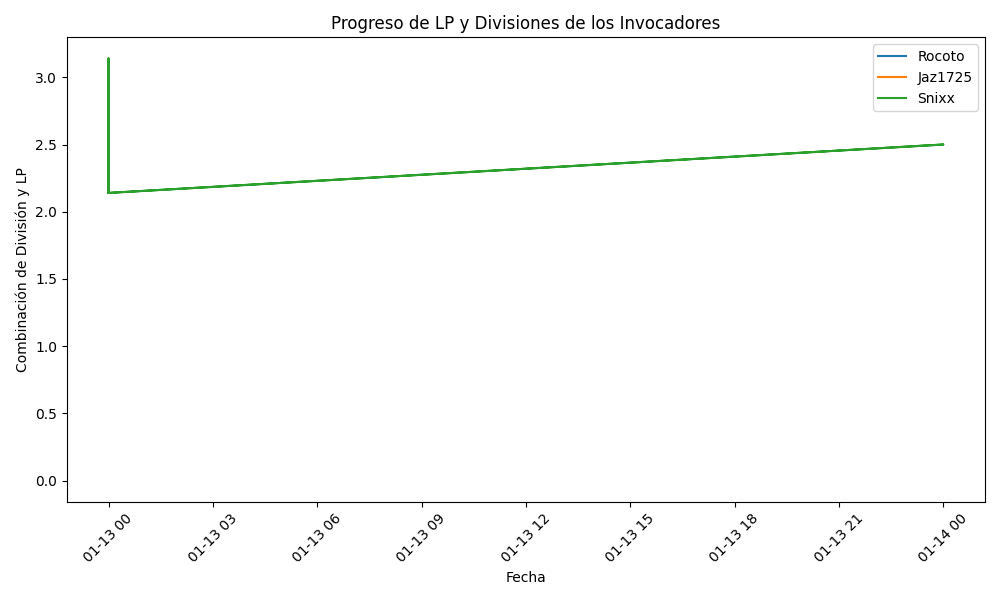
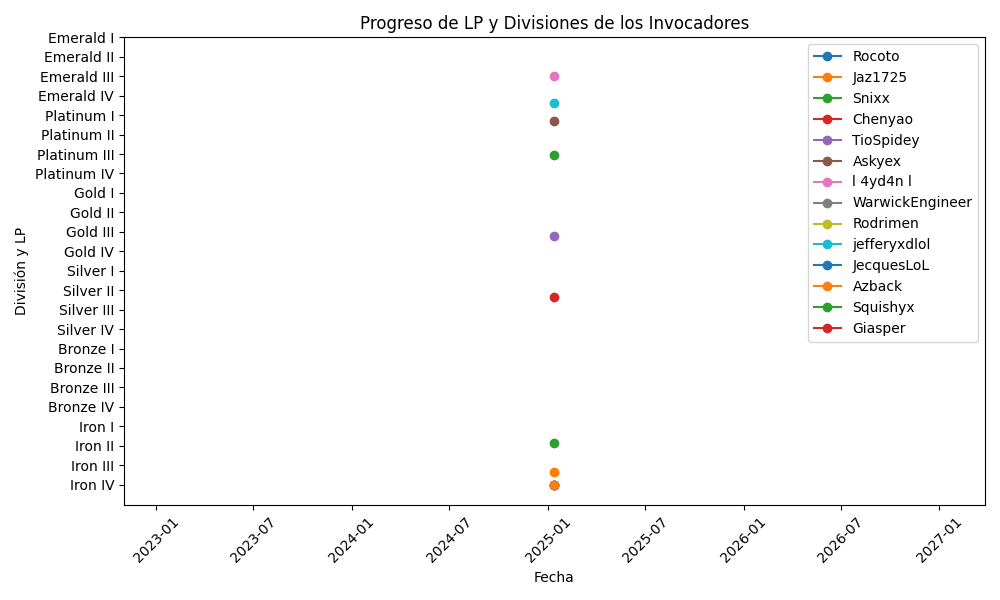
uwu

diff --git a/script.py b/script.py
@@ -47,7 +47,23 @@ def get_league_data(summoner_id):
 summoners = [
     {"name": "Rocoto", "tag": "2817"},
     {"name": "Jaz1725", "tag": "LAN"},
-    {"name": "Snixx", "tag": "LAN"}
+    {"name": "Snixx", "tag": "LAN"},
+    {"name": "Chenyao", "tag": "cutie"},
+    {"name": "TioSpidey", "tag": "LAN"},
+    {"name": "Askyex", "tag": "3012"},
+    {"name": "l 4yd4n l", "tag": "LAN"},
+    {"name": "WarwickEngineer", "tag": "3029"},
+    {"name": "Rodrimen", "tag": "LAN"},
+    #{"name": "atlantis temperr", "tag": "LAN"},
+    {"name": "jefferyxdlol", "tag": "LAN"},
+    #{"name": "ßasura", "tag": "LAN"},
+    {"name": "JecquesLoL", "tag": "LAN"},
+    {"name": "Azback", "tag": "117"},
+    {"name": "Squishyx", "tag": "LAN"},
+    {"name": "Giasper", "tag": "LAN"},
+    #{"name": "AyDaN", "tag": "LAN"},
+    #{"name": "Faren", "tag": "LAN"},
+    #{"name": "artrox2612", "tag": "LAN"}
 ]
 
 # Función para leer datos históricos del CSV (si existe)
@@ -60,16 +76,16 @@ def read_existing_csv(filename="docs/summoner_data.csv"):
 # Función para convertir las divisiones y LP a un valor numérico
 def division_to_numeric(division, rank, lp):
     division_order = {
-        "Iron": 0,
-        "Bronze": 10,
-        "Silver": 20,
-        "Gold": 30,
-        "Platinum": 40,
-        "Emerald": 50,
-        "Diamond": 60,
-        "Master": 70,
-        "GrandMaster": 80,
-        "Challenger": 90
+        "IRON": 0,
+        "BRONZE": 4,
+        "SILVER": 8,
+        "GOLD": 12,
+        "PLATINUM": 16,
+        "EMERALD": 20,
+        "DIAMOND": 24,
+        "MASTER": 28,
+        "GRANDMASTER": 29,
+        "CHALLENGER": 30
     }
 
     rank_order = {
@@ -84,7 +100,7 @@ def division_to_numeric(division, rank, lp):
     rank_value = rank_order.get(rank, 0)
     
     # Cada LP sube el valor del rango de la división, lo que permite un valor numérico en una escala continua
-    return division_value + rank_value + (lp / 100)  # LP divide por 100 para que entre en la escala de 0 a 1 dentro de la división
+    return division_value + (rank_value + (lp / 100))  # LP divide por 100 para que entre en la escala de 0 a 1 dentro de la división
 
 # Obtener el PUUID, datos adicionales y de liga para cada summoner
 def fetch_summoner_info(summoners):
@@ -151,18 +167,45 @@ def generate_graph(data, filename="docs/summoner_graph.png"):
     # Convertir la fecha a un formato adecuado para el eje X
     df['date'] = pd.to_datetime(df['date']).dt.date  # Solo la fecha sin la hora
     
+    # Mapear numeric_value a divisiones y rangos
+    divisions = [
+        "Iron IV", "Iron III", "Iron II", "Iron I",
+        "Bronze IV", "Bronze III", "Bronze II", "Bronze I",
+        "Silver IV", "Silver III", "Silver II", "Silver I",
+        "Gold IV", "Gold III", "Gold II", "Gold I",
+        "Platinum IV", "Platinum III", "Platinum II", "Platinum I",
+        "Emerald IV", "Emerald III", "Emerald II", "Emerald I",
+        "Diamond IV", "Diamond III", "Diamond II", "Diamond I",
+        "Master", "Grand Master", "Challenger"
+    ]
+    division_map = {i: division for i, division in enumerate(divisions)}
+    
+    # Determinar rango dinámico del eje Y
+    max_value = int(df['numeric_value'].max())  # Convertir a entero
+    min_value = int(df['numeric_value'].min())  # Convertir a entero
+    
+    # Calcular índices mínimo y máximo
+    max_index = min(((max_value // 4 + 1) * 4), len(divisions))  # Redondear al siguiente rango completo
+    y_ticks = list(range(min_value, max_index))  # Convertir a lista de valores enteros
+    y_labels = [division_map[i] for i in y_ticks]
+    
     # Graficar
     for summoner_name in df['name'].unique():
         summoner_data = df[df['name'] == summoner_name]
-        plt.plot(summoner_data['date'], summoner_data['numeric_value'], label=summoner_name)
+        plt.plot(summoner_data['date'], summoner_data['numeric_value'], marker="o", label=summoner_name)
     
     plt.title("Progreso de LP y Divisiones de los Invocadores")
     plt.xlabel('Fecha')
-    plt.ylabel('Combinación de División y LP')
+    plt.ylabel('División y LP')
     plt.xticks(rotation=45)
+    
+    # Configurar etiquetas dinámicas del eje Y
+    plt.yticks(ticks=y_ticks, labels=y_labels)
+    
     plt.tight_layout()
     plt.legend()
     plt.savefig(filename)  # Guardar el gráfico como archivo PNG
+
 
 # Ejecutar y guardar los resultados
 if __name__ == "__main__":
